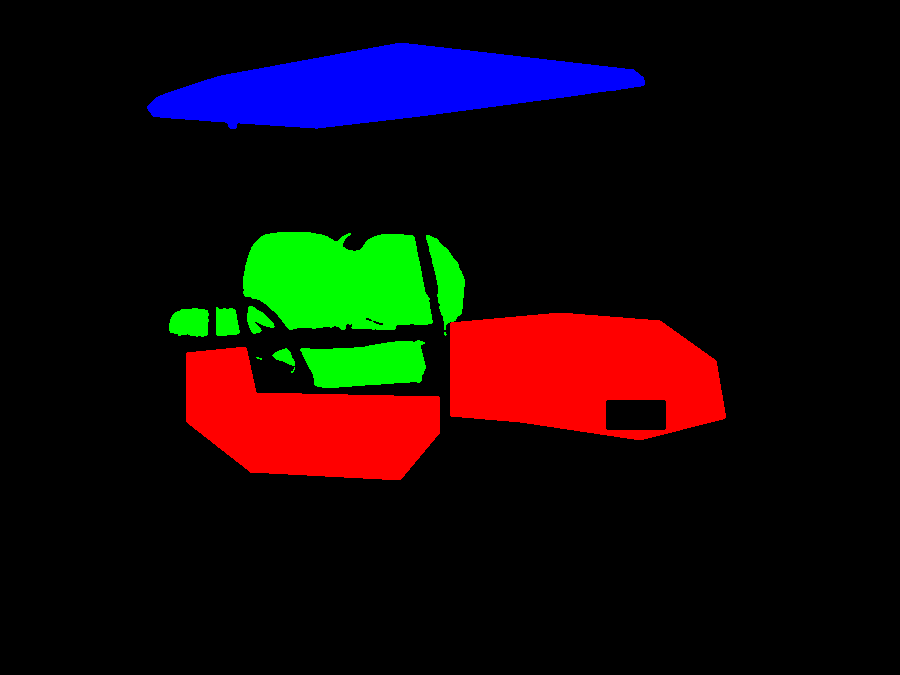
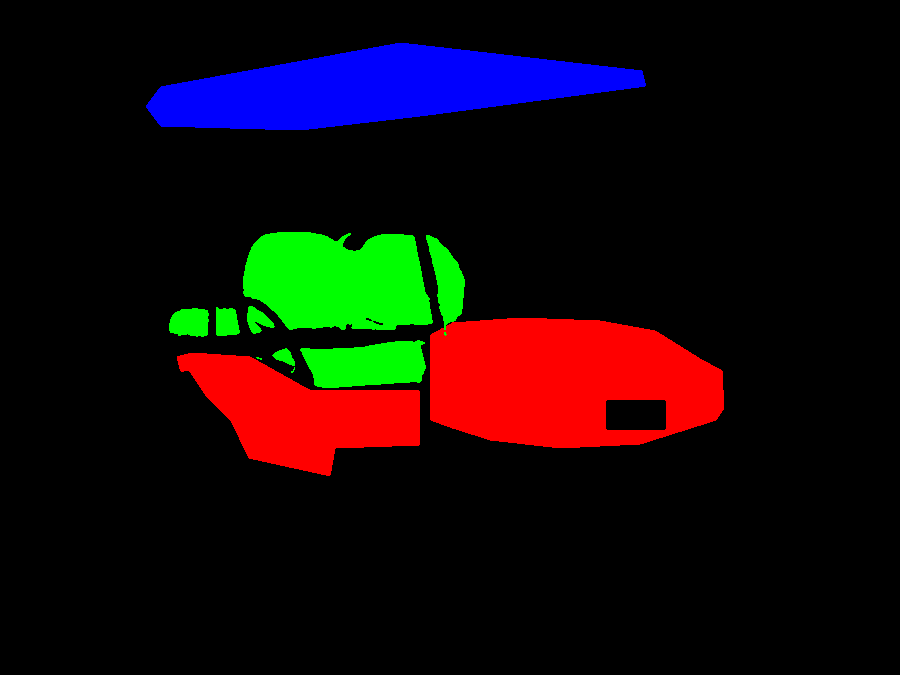
Build-photo color preview: traced 2+2 bodies, softer repaint of dark photos, clean dark roofs
The black (Golfer 2+2) and green (Scratch 2+2) photos repainted light looked
blotchy and showed hard straight seams where their rough body outline cut
across the panels. Their bodies are now traced along the real panel edges
(front cowl, rear side panel along wheel arch, seat line and footwell), and
dark bodies carry less of their own reflections into a new color. The three
dark roofs (Pro 2, Golfer 2+2, Pro 2+2) are taken whole inside their outline,
so a white or beige roof no longer has dark specks. The homepage color
preview is unchanged.

diff --git a/recolor.js b/recolor.js
@@ -73,10 +73,10 @@ const COLOR_PREVIEW = {
 // The striped Tsunami seats in the Scratch photos carry less of their light / dark into a new seat color.
 [
     ['golfer-tempo-2:golf', 'golfer-2-golfer'], ['golfer-tempo-2:scratch', 'golfer-2-scratch-right', 0.35], ['golfer-tempo-2:pro', 'golfer-2-pro', undefined, 0.4],
-    ['golfer-tempo-2-2:golf', 'golfer-2-2-golfer', undefined, 0.4], ['golfer-tempo-2-2:scratch', 'golfer-2-2-scratch', 0.35], ['golfer-tempo-2-2:pro', 'golfer-2-2-pro-right', undefined, 0.4]
-].forEach(([key, photo, seatContrast, canopyContrast]) => {
+    ['golfer-tempo-2-2:golf', 'golfer-2-2-golfer', undefined, 0.4, 0.3], ['golfer-tempo-2-2:scratch', 'golfer-2-2-scratch', 0.35, undefined, 0.3], ['golfer-tempo-2-2:pro', 'golfer-2-2-pro-right', undefined, 0.4]
+].forEach(([key, photo, seatContrast, canopyContrast, bodyContrast]) => {
     // Dark roofs (canopyContrast) carry less of their gloss into a lighter canopy color
-    COLOR_PREVIEW[key] = { base: `image/Products/builds/${photo}.jpg`, mask: `image/Products/builds/masks/${photo}.png`, seatContrast, canopyContrast };
+    COLOR_PREVIEW[key] = { base: `image/Products/builds/${photo}.jpg`, mask: `image/Products/builds/masks/${photo}.png`, seatContrast, canopyContrast, bodyContrast };
 });
 
 const recolorCache = {};
@@ -392,7 +392,7 @@ async function renderCartPreview(slug, choice) {
         : null;
     if (seat && regions.seat) paintRegion(out, base, regions.seat, seat.hsl, null, seatBands, cfg.seatContrast);
     const body = parseSwatch(choice.body);
-    if (body) paintRegion(out, base, regions.body, body.hsl, body.gradient && body.gradient.length > 1 ? body.gradient : null);
+    if (body) paintRegion(out, base, regions.body, body.hsl, body.gradient && body.gradient.length > 1 ? body.gradient : null, null, cfg.bodyContrast);
 
     const canvas = document.createElement('canvas');
     canvas.width = base.w;
